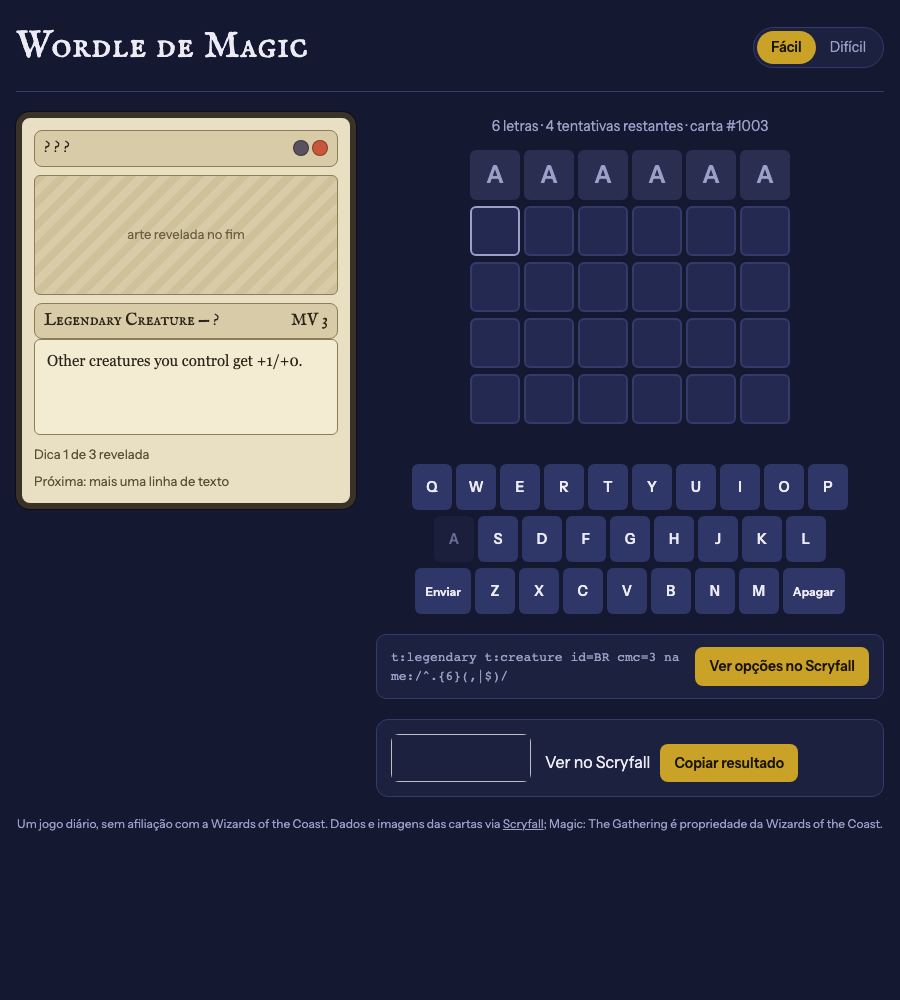
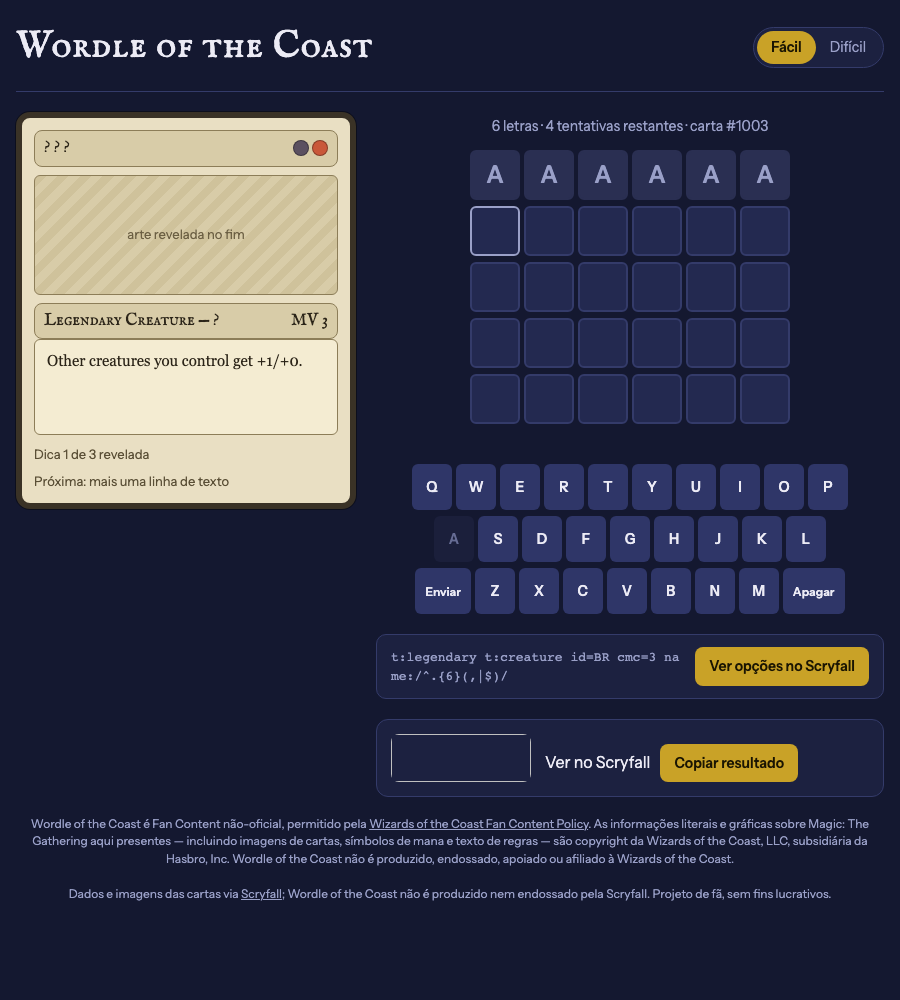
Renomear para "Wordle of the Coast" e adicionar aviso de Fan Content Policy
Repositório renomeado de wordle-mtg para wordle-of-the-coast (GitHub
Pages e configurações de Pages seguiram automaticamente). Nova URL:
https://lleonardogr.github.io/wordle-of-the-coast/

Rodapé do site agora traz um aviso explícito de Fan Content Policy da
Wizards of the Coast (copyright, não afiliação) além da atribuição à
Scryfall que já existia, inspirado no rodapé que o próprio Scryfall usa.

Changed region(s): [[0.0311, 0.806, 0.9644, 0.899], [0.1556, 0.031, 0.4044, 0.062]]

diff --git a/index.html b/index.html
@@ -3,7 +3,7 @@
 <head>
 <meta charset="utf-8">
 <meta name="viewport" content="width=device-width, initial-scale=1, viewport-fit=cover">
-<title>Wordle de Magic</title>
+<title>Wordle of the Coast</title>
 <meta name="description" content="Adivinhe a criatura lendária de Magic: The Gathering do dia, com dicas vindas do Scryfall.">
 <link rel="stylesheet" href="https://fonts.googleapis.com/css2?family=IM+Fell+English+SC&family=Instrument+Sans:wght@400;600&display=swap">
 <link rel="stylesheet" href="./css/styles.css">
@@ -11,7 +11,7 @@
 <body>
 <div class="wrap">
   <header>
-    <h1>Wordle de Magic</h1>
+    <h1>Wordle of the Coast</h1>
     <div class="seg" role="group" aria-label="Modo de jogo">
       <button id="bEasy" aria-pressed="true">Fácil</button>
       <button id="bHard" aria-pressed="false">Difícil</button>
@@ -66,8 +66,15 @@
   </main>
 
   <p class="foot">
-    Um jogo diário, sem afiliação com a Wizards of the Coast. Dados e imagens das cartas via
-    <a href="https://scryfall.com" target="_blank" rel="noopener">Scryfall</a>; Magic: The Gathering é propriedade da Wizards of the Coast.
+    Wordle of the Coast é Fan Content não-oficial, permitido pela
+    <a href="https://company.wizards.com/en/legal/fancontentpolicy" target="_blank" rel="noopener">Wizards of the Coast Fan Content Policy</a>.
+    As informações literais e gráficas sobre Magic: The Gathering aqui presentes — incluindo imagens de
+    cartas, símbolos de mana e texto de regras — são copyright da Wizards of the Coast, LLC, subsidiária
+    da Hasbro, Inc. Wordle of the Coast não é produzido, endossado, apoiado ou afiliado à Wizards of the Coast.
+  </p>
+  <p class="foot">
+    Dados e imagens das cartas via <a href="https://scryfall.com" target="_blank" rel="noopener">Scryfall</a>;
+    Wordle of the Coast não é produzido nem endossado pela Scryfall. Projeto de fã, sem fins lucrativos.
   </p>
 </div>
 

diff --git a/js/app.js b/js/app.js
@@ -73,7 +73,7 @@ const modeState = {
 };
 
 function storageKey(m) {
-  return `wordle-mtg:${puzzleNumber()}:${m}`;
+  return `wordle-of-the-coast:${puzzleNumber()}:${m}`;
 }
 
 function loadState(m) {
@@ -418,7 +418,7 @@ el.shareBtn?.addEventListener("click", async () => {
     .join("\n");
   const label = mode === "easy" ? "fácil" : "difícil";
   const result = state.status === "won" ? `${state.guesses.length}/${MAX_ATTEMPTS[mode]}` : "X";
-  const text = `Wordle de Magic #${puzzleNumber()} (${label}) ${result}\n${grid}`;
+  const text = `Wordle of the Coast #${puzzleNumber()} (${label}) ${result}\n${grid}`;
   try {
     await navigator.clipboard.writeText(text);
     showMessage("Resultado copiado!");

diff --git a/README.md b/README.md
@@ -1,9 +1,9 @@
-# Wordle de Magic
+# Wordle of the Coast
 
 Um Wordle diário de criaturas lendárias de *Magic: The Gathering*, com dados e
 imagens vindos da [API do Scryfall](https://scryfall.com/docs/api).
 
-Jogue em: https://lleonardogr.github.io/wordle-mtg/
+Jogue em: https://lleonardogr.github.io/wordle-of-the-coast/
 
 Para contexto de desenvolvimento (arquitetura, decisões, pipeline de dados),
 veja [CLAUDE.md](CLAUDE.md). Para o sistema visual e estado de design
@@ -20,6 +20,8 @@ visualmente, sem depender de automação de navegador ao vivo —
 - **Modo difícil**: adivinhe o nome completo da carta, incluindo pontuação
   (ex: `ATRAXA, PRAETORS' VOICE`). Espaços e pontuação já vêm revelados nas
   peças fixas do tabuleiro; só as letras são adivinhadas.
+- Ambos os modos têm 5 tentativas — a dificuldade vem do tamanho do
+  nome-alvo, não de ter menos chances.
 - A cada tentativa, uma nova dica é revelada: linhas do texto de regras
   (Oracle text) e, depois, o subtipo de criatura. A identidade de cor e o
   valor de mana já aparecem desde o início. A arte da carta só é revelada
@@ -36,16 +38,17 @@ visualmente, sem depender de automação de navegador ao vivo —
 vez de abrir o arquivo diretamente:
 
 ```bash
-python3 -m http.server 8000
-# ou: npx serve
+npm run serve
 ```
 
-Depois acesse `http://localhost:8000`.
+Depois acesse `http://localhost:8123`.
 
 ## Atualizando o pool de cartas
 
 O pool de criaturas lendárias fica em `data/cards.json`, gerado a partir da
-busca do Scryfall `t:legendary t:creature -is:funny game:paper lang:en`.
+busca do Scryfall `t:legendary t:creature -is:funny game:paper lang:en
+name:/,/` (o `name:/,/` garante que toda carta tem o formato
+"Nome, Epíteto", essencial para o modo fácil ser sempre curto de verdade).
 
 ```bash
 npm run fetch-cards
@@ -71,12 +74,21 @@ js/gameLogic.js       lógica pura do jogo (sem DOM) — feedback do Wordle,
                        seleção da carta do dia, montagem da query do Scryfall
 js/app.js              estado, renderização e eventos de UI
 scripts/fetch-cards.mjs  gera data/cards.json a partir da API do Scryfall
+scripts/e2e-smoke.mjs    teste ponta-a-ponta (Chromium headless) — ver docs/TESTING.md
 data/cards.json          pool de cartas elegíveis (gerado)
 .github/workflows/       atualização agendada dos dados
 ```
 
 ## Atribuição
 
-Este é um projeto de fã, sem afiliação com a Wizards of the Coast. Dados e
-imagens das cartas são fornecidos pela [Scryfall](https://scryfall.com).
-Magic: The Gathering é propriedade da Wizards of the Coast.
+Wordle of the Coast é Fan Content não-oficial, permitido pela
+[Wizards of the Coast Fan Content Policy](https://company.wizards.com/en/legal/fancontentpolicy).
+As informações literais e gráficas sobre Magic: The Gathering aqui presentes
+— incluindo imagens de cartas, símbolos de mana e texto de regras — são
+copyright da Wizards of the Coast, LLC, subsidiária da Hasbro, Inc. Wordle of
+the Coast não é produzido, endossado, apoiado ou afiliado à Wizards of the
+Coast.
+
+Dados e imagens das cartas são fornecidos pela [Scryfall](https://scryfall.com).
+Wordle of the Coast não é produzido nem endossado pela Scryfall. Projeto de
+fã, sem fins lucrativos.

diff --git a/CLAUDE.md b/CLAUDE.md
@@ -1,11 +1,16 @@
-# Wordle de Magic — contexto do projeto
+# Wordle of the Coast — contexto do projeto
 
 Wordle diário de criaturas lendárias de *Magic: The Gathering*. Site
 estático (HTML/CSS/JS puro, sem build, sem framework) publicado no GitHub
-Pages, com dados vindos da API do Scryfall.
+Pages, com dados vindos da API do Scryfall. Nome é um trocadilho com
+"Wizards of the Coast" — por isso o rodapé do site carrega um aviso de Fan
+Content Policy explícito deixando clara a falta de afiliação.
 
-- **Produção:** https://lleonardogr.github.io/wordle-mtg/
-- **Repositório:** https://github.com/lleonardogr/wordle-mtg
+- **Produção:** https://lleonardogr.github.io/wordle-of-the-coast/
+- **Repositório:** https://github.com/lleonardogr/wordle-of-the-coast
+  (renomeado de `wordle-mtg` — se algum link antigo apontar para
+  `wordle-mtg`, o GitHub redireciona automaticamente por um tempo, mas não
+  para sempre)
 - Leia também **[docs/DESIGN.md](docs/DESIGN.md)** (sistema visual, protótipo
   original, decisões de layout) e **[docs/TESTING.md](docs/TESTING.md)**
   (como testar, inclusive visualmente, sem automação de navegador).
@@ -96,7 +101,7 @@ atenção, já resolvidos no script mas fáceis de reintroduzir se mexer nele:
   sem vírgula no modo fácil podem ser tão longos quanto no modo difícil, e
   ficavam com peças grandes demais, quebrando em várias linhas.
 - Progresso por modo fica em `localStorage`, chaveado por
-  `wordle-mtg:<número-do-puzzle>:<modo>`.
+  `wordle-of-the-coast:<número-do-puzzle>:<modo>`.
 - Símbolos de mana do Oracle text (`{W}`, `{T}`, etc.) são convertidos em
   pastilhas (`renderManaText` em `app.js`), nunca mostrados como texto cru.
 

diff --git a/docs/TESTING.md b/docs/TESTING.md
@@ -26,7 +26,7 @@ npm run test:e2e                  # noutro terminal — roda os 3 cenários
 Ou direto contra produção (sem precisar do `npm run serve`):
 
 ```bash
-node scripts/e2e-smoke.mjs https://lleonardogr.github.io/wordle-mtg/
+node scripts/e2e-smoke.mjs https://lleonardogr.github.io/wordle-of-the-coast/
 ```
 
 O script:
